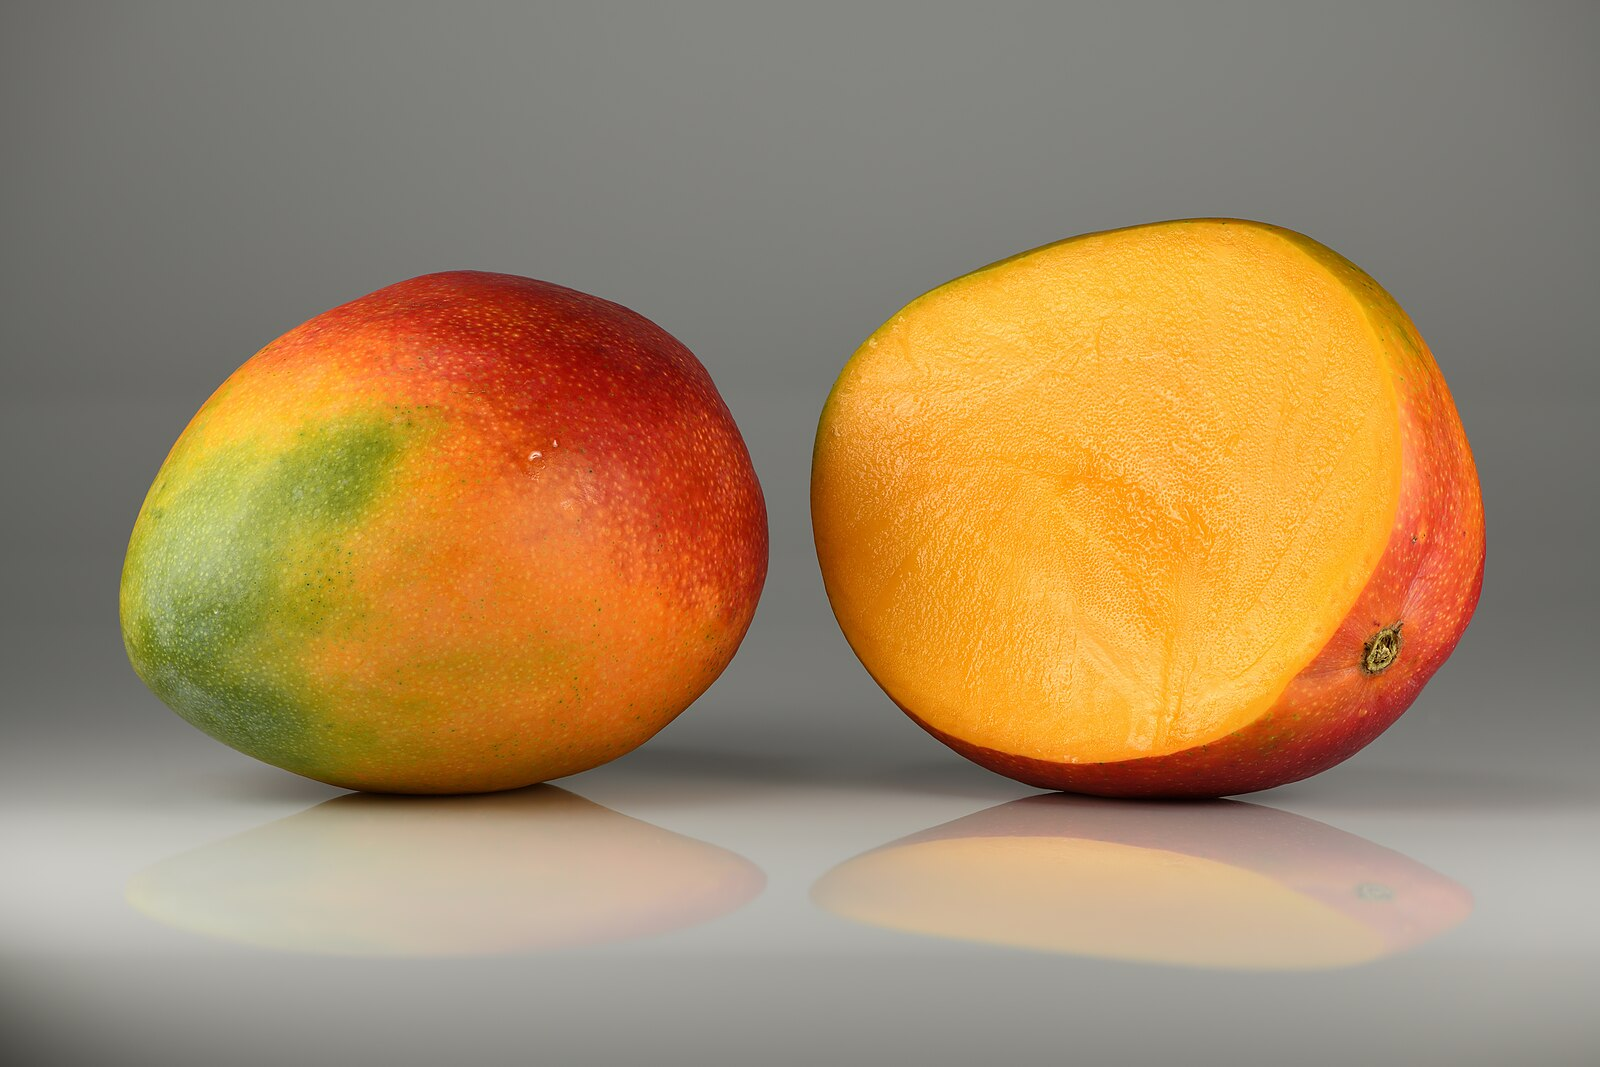
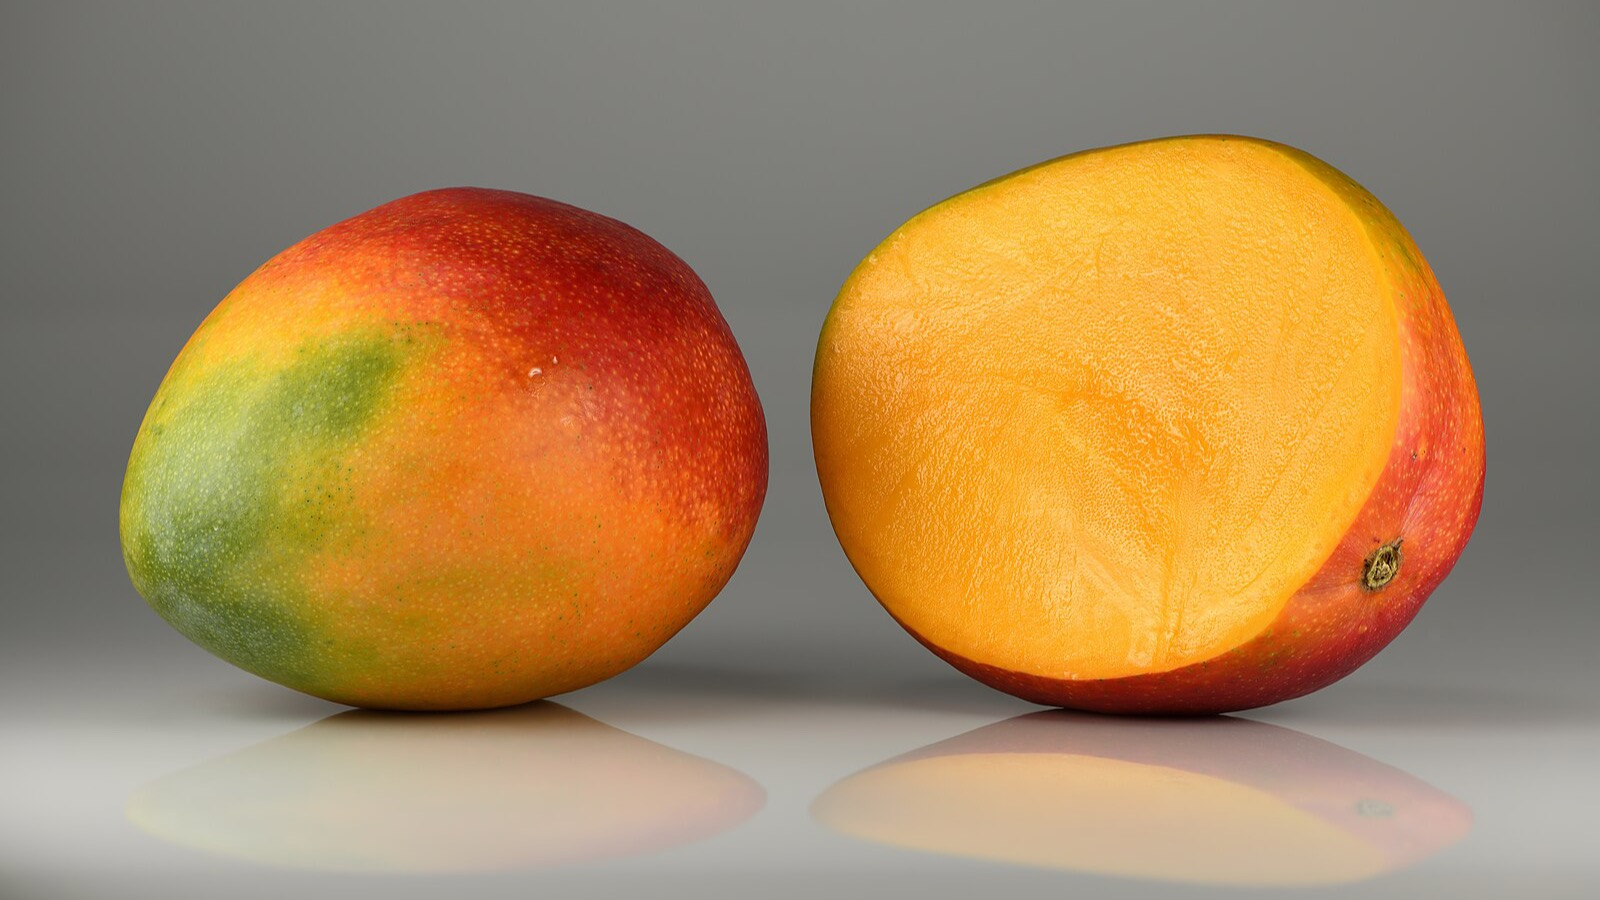
Standardize all cover wrappers to 16:9 to avoid cropping
The SVG illustrations are authored at 800x450 (16:9), but the wrappers
that render them were a mix of 5:3, 16:10, and 21:9. preserveAspectRatio
"slice" then cropped the SVG edges. Set every cover wrapper —
.home-hero__media, .feat-side__img, .latest__img, .list__img,
.related__img, .article-cover — to 16:9 so the full SVG always shows.

Re-crop mango-varieties.jpg from 1600x1067 (3:2) to 1600x900 (16:9)
so object-fit: cover has nothing left to trim. README updated with
sips one-liner for future cover photos.

diff --git a/public/styles.css b/public/styles.css
@@ -296,7 +296,7 @@ button { font-family: inherit; cursor: pointer; border: 0; background: none; }
 .home-hero__media {
   background: var(--bg-soft);
   border-radius: 4px;
-  aspect-ratio: 16 / 10;
+  aspect-ratio: 16 / 9;
   position: relative;
   overflow: hidden;
   margin-bottom: 24px;
@@ -445,7 +445,7 @@ button { font-family: inherit; cursor: pointer; border: 0; background: none; }
 .feat-side__img {
   background: var(--bg-soft);
   border-radius: 4px;
-  aspect-ratio: 5 / 3;
+  aspect-ratio: 16 / 9;
   margin: 0 0 14px;
   overflow: hidden;
   position: relative;
@@ -517,7 +517,7 @@ button { font-family: inherit; cursor: pointer; border: 0; background: none; }
 .latest__img {
   background: var(--bg-soft);
   border-radius: 4px;
-  aspect-ratio: 5 / 3;
+  aspect-ratio: 16 / 9;
   position: relative;
   overflow: hidden;
   transition: transform .3s ease;
@@ -744,7 +744,7 @@ button { font-family: inherit; cursor: pointer; border: 0; background: none; }
 .list__img {
   background: var(--bg-soft);
   border-radius: 4px;
-  aspect-ratio: 5 / 3;
+  aspect-ratio: 16 / 9;
   position: relative;
   overflow: hidden;
   transition: transform .3s ease;
@@ -827,7 +827,7 @@ button { font-family: inherit; cursor: pointer; border: 0; background: none; }
 
 .article-cover {
   background: var(--bg-soft);
-  aspect-ratio: 21 / 9;
+  aspect-ratio: 16 / 9;
   margin: 32px 0 48px;
   position: relative;
   overflow: hidden;
@@ -995,7 +995,7 @@ button { font-family: inherit; cursor: pointer; border: 0; background: none; }
 .related__img {
   background: var(--bg-soft);
   border-radius: 4px;
-  aspect-ratio: 5 / 3;
+  aspect-ratio: 16 / 9;
   margin-bottom: 14px;
   position: relative;
   overflow: hidden;

diff --git a/README.md b/README.md
@@ -179,4 +179,8 @@ cover_credit_url: "https://commons.wikimedia.org/wiki/File:Mangos_-_single_and_h
 
 **Recommended mix:** roughly 60% clean SVG diagrams (industry/process) and 40% real food photos (variety/product/consumer) so the homepage reads like a modern food publication.
 
-**Image sizing:** ship roughly 1600px wide (covers render at up to ~800px on desktop) and ≤300KB for fast loads. JPEG quality 80–85 is a good baseline; WebP saves more if you can produce it.
+**Image sizing:** every cover wrapper is 16:9, so deliver photos at **1600×900** (or any 16:9 multiple) and `object-fit: cover` won't crop anything. Aim for ≤300KB; JPEG quality 80–85 is a good baseline, WebP saves more if you can produce it. To re-crop a photo to 16:9 quickly:
+
+```bash
+sips -c 900 1600 input.jpg --out cover.jpg     # macOS, in-place crop centered
+```